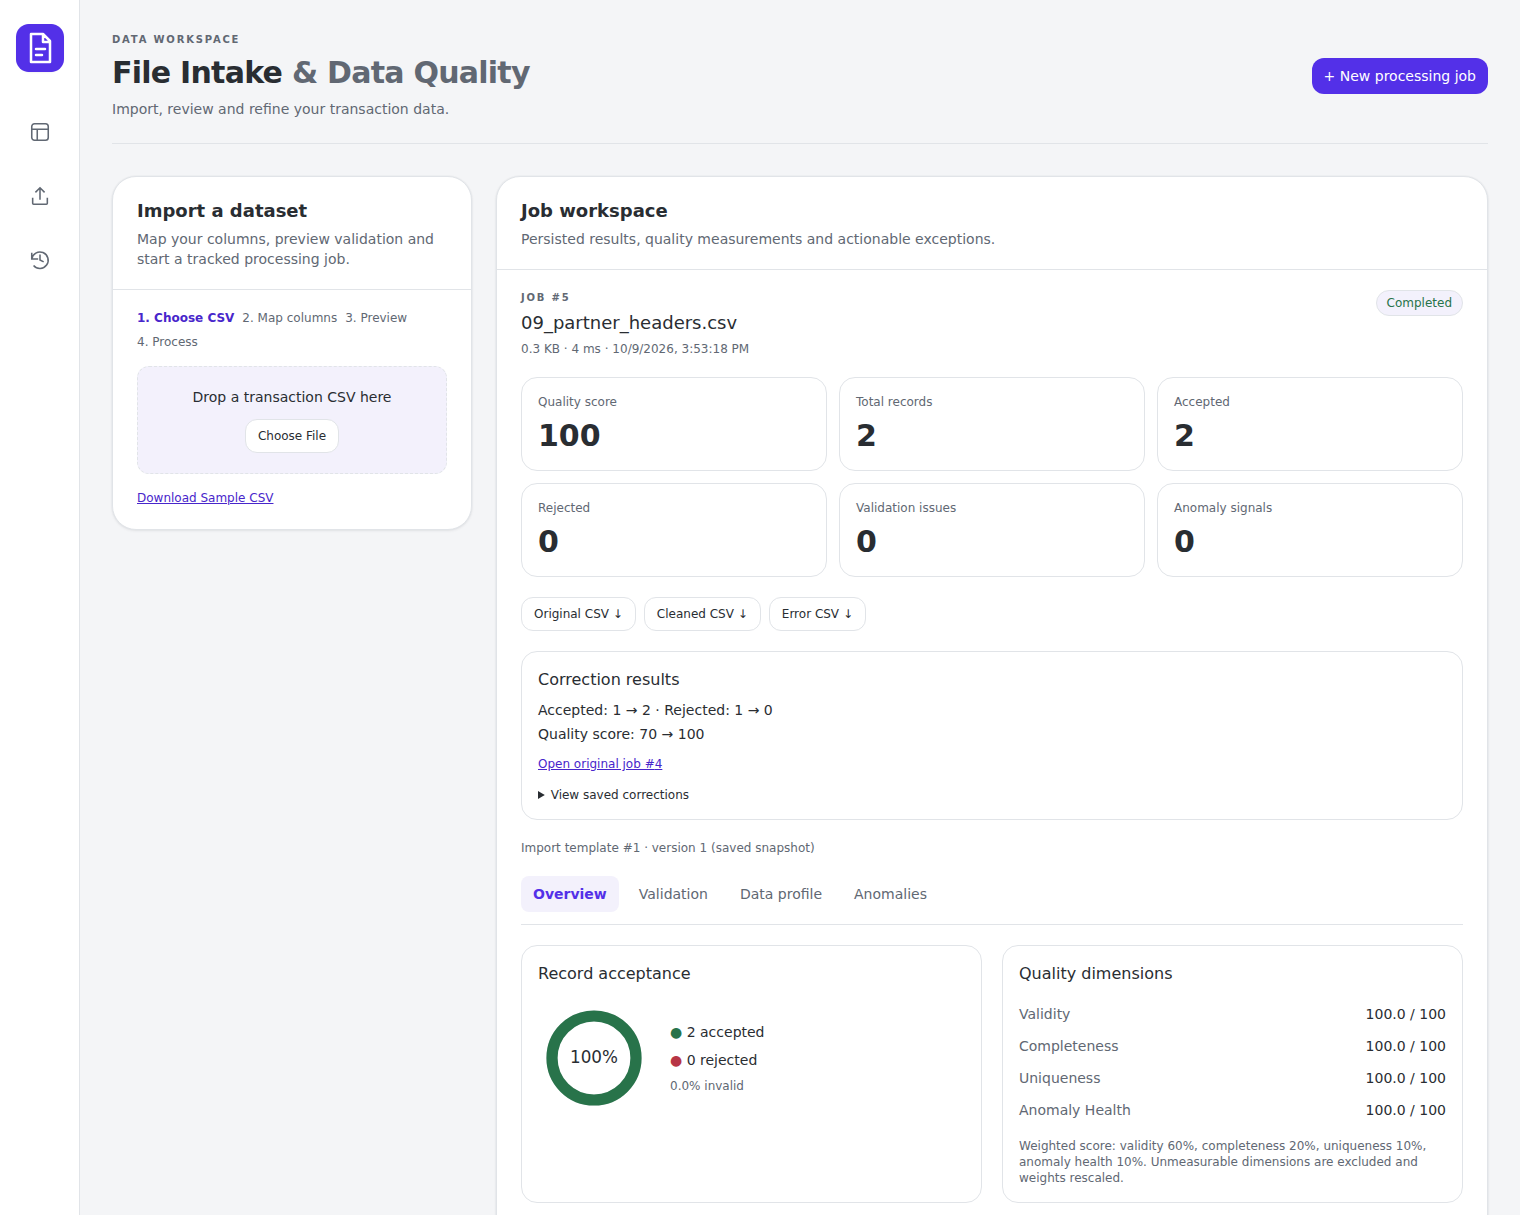
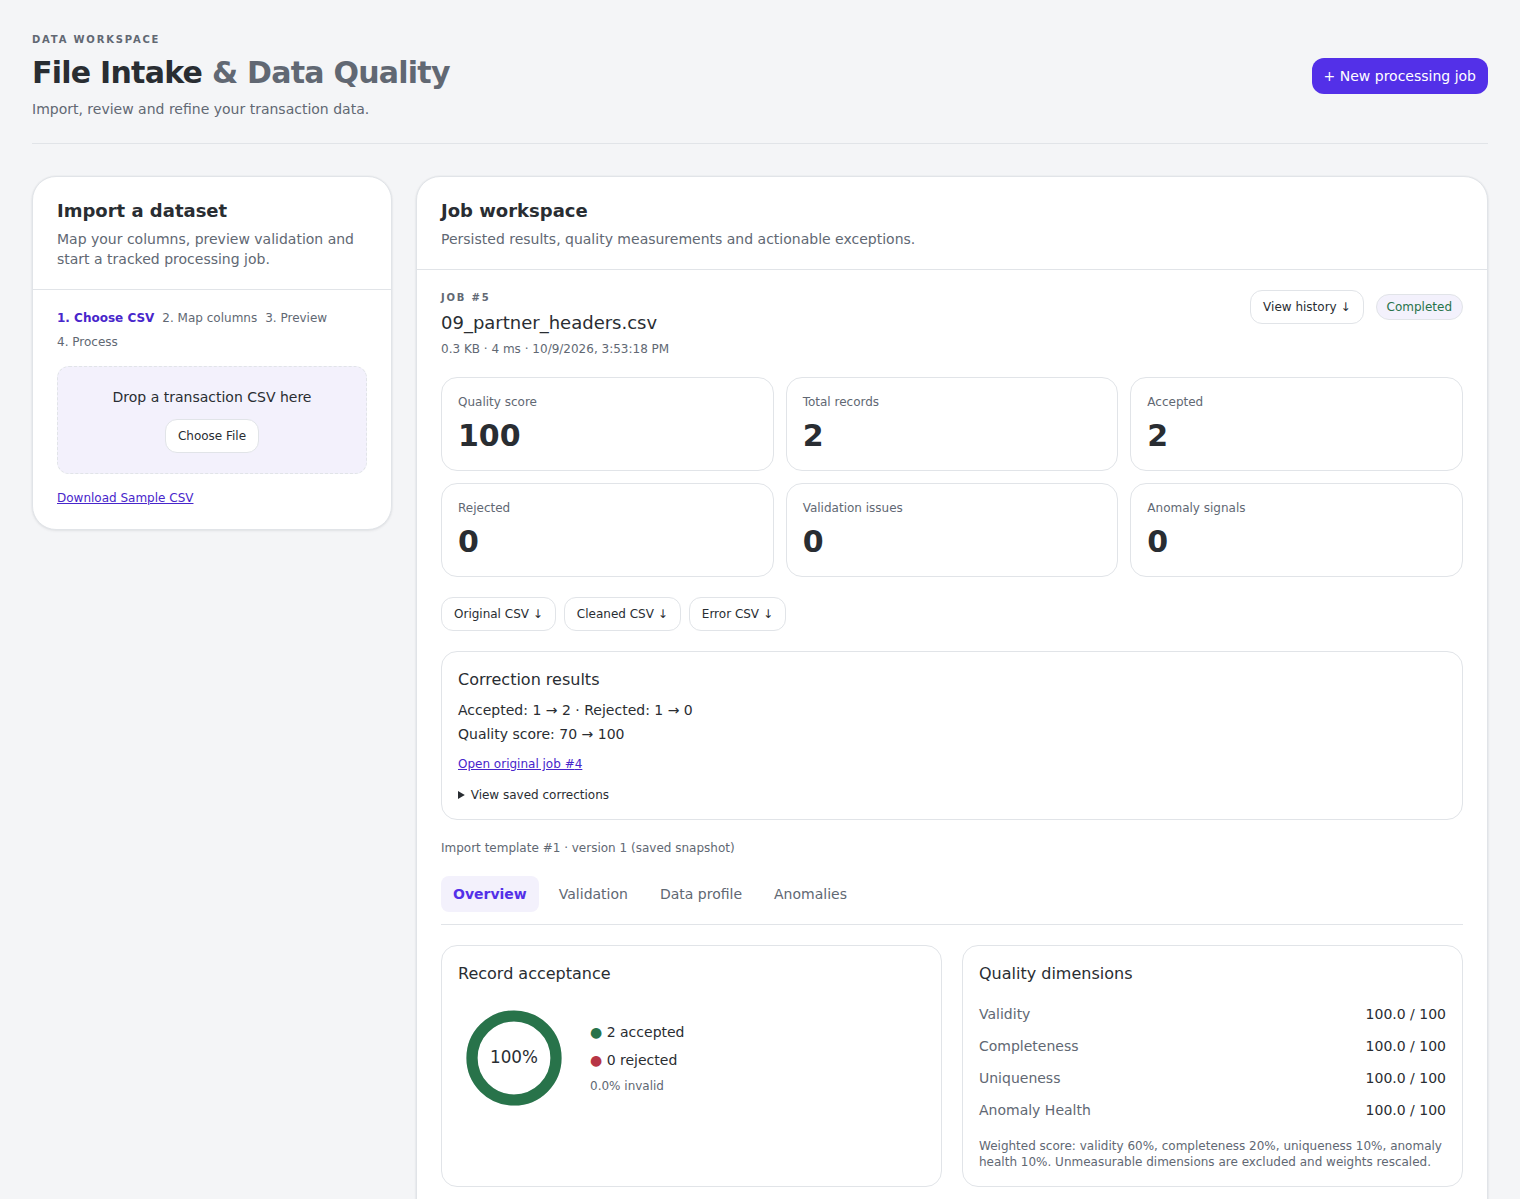
Simplify dashboard navigation and refresh README screenshots

diff --git a/frontend/src/components/layout/AppShell.tsx b/frontend/src/components/layout/AppShell.tsx
@@ -23,141 +23,68 @@ export function AppShell() {
   const onTerminal = useCallback(() => setRefreshKey((key) => key + 1), []);
   const resultsRef = useRef<HTMLDivElement>(null);
   return (
-    <div className="lg:pl-20">
-      <nav
-        aria-label="Workspace navigation"
-        className="fixed inset-y-0 left-0 z-20 hidden w-20 flex-col items-center gap-4 border-r border-borderSoft bg-surface py-6 lg:flex"
-      >
-        <a
-          href="#dashboard"
-          aria-label="File Intake dashboard"
-          className="mb-5 flex h-12 w-12 items-center justify-center rounded-2xl bg-accent shadow-sm"
-        >
-          <img src="/favicon.svg" alt="" className="h-12 w-12" />
+    <div
+      id="dashboard"
+      className="mx-auto max-w-[1520px] px-4 py-6 sm:px-8 sm:py-8"
+    >
+      <header className="mb-8 flex flex-wrap items-center justify-between gap-4 border-b border-borderSoft pb-6">
+        <div>
+          <p className="eyebrow">DATA WORKSPACE</p>
+          <h1 className="mt-2 text-2xl font-semibold tracking-tight sm:text-3xl">
+            File Intake{" "}
+            <span className="text-textMuted">&amp; Data Quality</span>
+          </h1>
+          <p className="mt-2 text-sm text-textMuted">
+            Import, review and refine your transaction data.
+          </p>
+        </div>
+        <a className="button-primary" href="#new-job">
+          + New processing job
         </a>
-        <a
-          href="#workspace"
-          className="rail-link"
-          aria-label="Job workspace"
-          title="Job workspace"
-        >
-          <svg
-            aria-hidden="true"
-            width="22"
-            height="22"
-            viewBox="0 0 24 24"
-            fill="none"
-            stroke="currentColor"
-            strokeWidth="1.7"
-          >
-            <rect x="3" y="3" width="18" height="18" rx="3" />
-            <path d="M3 9h18M9 9v12" />
-          </svg>
-        </a>
-        <a
-          href="#new-job"
-          className="rail-link"
-          aria-label="Import a dataset"
-          title="Import a dataset"
-        >
-          <svg
-            aria-hidden="true"
-            width="22"
-            height="22"
-            viewBox="0 0 24 24"
-            fill="none"
-            stroke="currentColor"
-            strokeWidth="1.7"
-          >
-            <path d="M12 16V3m-5 5 5-5 5 5M4 14v6a1 1 0 0 0 1 1h14a1 1 0 0 0 1-1v-6" />
-          </svg>
-        </a>
-        <a
-          href="#history"
-          className="rail-link"
-          aria-label="Processing history"
-          title="Processing history"
-        >
-          <svg
-            aria-hidden="true"
-            width="22"
-            height="22"
-            viewBox="0 0 24 24"
-            fill="none"
-            stroke="currentColor"
-            strokeWidth="1.7"
-          >
-            <path d="M3 11a9 9 0 1 1 2 7M3 4v7h7m2-5v6l4 2" />
-          </svg>
-        </a>
-      </nav>
-      <div
-        id="dashboard"
-        className="mx-auto max-w-[1520px] px-4 py-6 sm:px-8 sm:py-8"
-      >
-        <header className="mb-8 flex flex-wrap items-center justify-between gap-4 border-b border-borderSoft pb-6">
-          <div>
-            <p className="eyebrow">DATA WORKSPACE</p>
-            <h1 className="mt-2 text-2xl font-semibold tracking-tight sm:text-3xl">
-              File Intake{" "}
-              <span className="text-textMuted">&amp; Data Quality</span>
-            </h1>
-            <p className="mt-2 text-sm text-textMuted">
-              Import, review and refine your transaction data.
-            </p>
-          </div>
-          <a className="button-primary" href="#new-job">
-            + New processing job
-          </a>
-        </header>
-        <main className="space-y-6">
-          <div className="grid items-start gap-6 xl:grid-cols-[360px_minmax(0,1fr)]">
-            <div id="new-job">
-              <UploadPanel
-                onUploadStart={() => setIsProcessing(true)}
-                onUploadError={() => setIsProcessing(false)}
-                onUploadComplete={(result) => {
-                  selectJob(result.job_id);
-                  setIsProcessing(false);
-                  setRefreshKey((key) => key + 1);
-                }}
-              />
-            </div>
-            <div
-              id="workspace"
-              ref={resultsRef}
-              className="min-w-0 scroll-mt-4"
-            >
-              <ResultsPanel
-                jobId={jobId}
-                isLoading={isProcessing}
-                onTerminal={onTerminal}
-                onSelect={(id) => {
-                  selectJob(id);
-                  setRefreshKey((key) => key + 1);
-                }}
-              />
-            </div>
-          </div>
-          <div id="history">
-            <JobsPanel
-              refreshKey={refreshKey}
-              selectedId={jobId}
-              onSelect={(id) => {
-                selectJob(id);
-                resultsRef.current?.scrollIntoView({
-                  behavior: "smooth",
-                  block: "start",
-                });
+      </header>
+      <main className="space-y-6">
+        <div className="grid items-start gap-6 xl:grid-cols-[360px_minmax(0,1fr)]">
+          <div id="new-job">
+            <UploadPanel
+              onUploadStart={() => setIsProcessing(true)}
+              onUploadError={() => setIsProcessing(false)}
+              onUploadComplete={(result) => {
+                selectJob(result.job_id);
+                setIsProcessing(false);
+                setRefreshKey((key) => key + 1);
               }}
             />
           </div>
-        </main>
-        <footer className="py-8 text-xs text-textMuted">
-          Deterministic validation · Local file storage · Optional AI
-          interpretation
-        </footer>
-      </div>
+          <div id="workspace" ref={resultsRef} className="min-w-0 scroll-mt-4">
+            <ResultsPanel
+              jobId={jobId}
+              isLoading={isProcessing}
+              onTerminal={onTerminal}
+              onSelect={(id) => {
+                selectJob(id);
+                setRefreshKey((key) => key + 1);
+              }}
+            />
+          </div>
+        </div>
+        <div id="history">
+          <JobsPanel
+            refreshKey={refreshKey}
+            selectedId={jobId}
+            onSelect={(id) => {
+              selectJob(id);
+              resultsRef.current?.scrollIntoView({
+                behavior: "smooth",
+                block: "start",
+              });
+            }}
+          />
+        </div>
+      </main>
+      <footer className="py-8 text-xs text-textMuted">
+        Deterministic validation · Local file storage · Optional AI
+        interpretation
+      </footer>
     </div>
   );
 }

diff --git a/frontend/src/components/panels/ResultsPanel.tsx b/frontend/src/components/panels/ResultsPanel.tsx
@@ -123,9 +123,16 @@ export function ResultsPanel({
                 ).toLocaleString()}
               </p>
             </div>
-            <span className={`status-badge ${statusClass(job.status)}`}>
-              {job.status}
-            </span>
+            <div className="flex flex-wrap items-center gap-3">
+              {job.status === "completed" && (
+                <a className="button-secondary" href="#history">
+                  View history ↓
+                </a>
+              )}
+              <span className={`status-badge ${statusClass(job.status)}`}>
+                {job.status}
+              </span>
+            </div>
           </div>
           {job.error_message && (
             <p className="notice-error mt-4" role="alert">

diff --git a/frontend/src/index.css b/frontend/src/index.css
@@ -109,9 +109,6 @@ summary:focus-visible {
 }
 
 @layer components {
-  .rail-link {
-    @apply flex h-12 w-12 items-center justify-center rounded-2xl text-textMuted transition-colors hover:bg-surfaceSoft hover:text-accent;
-  }
   .data-table tbody tr:hover {
     @apply bg-surfaceSoft/50;
   }
